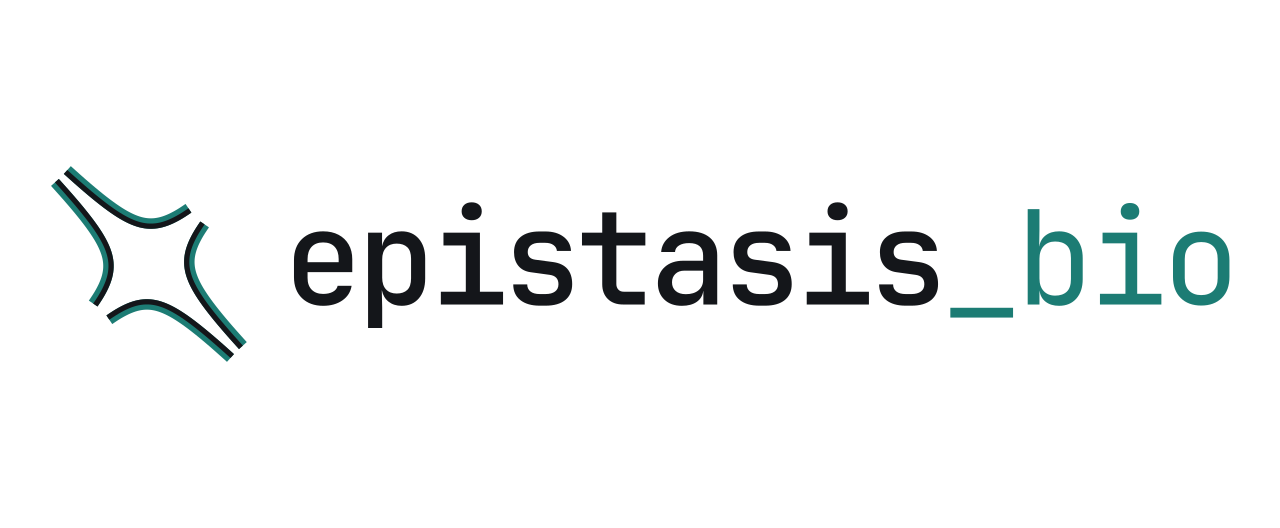
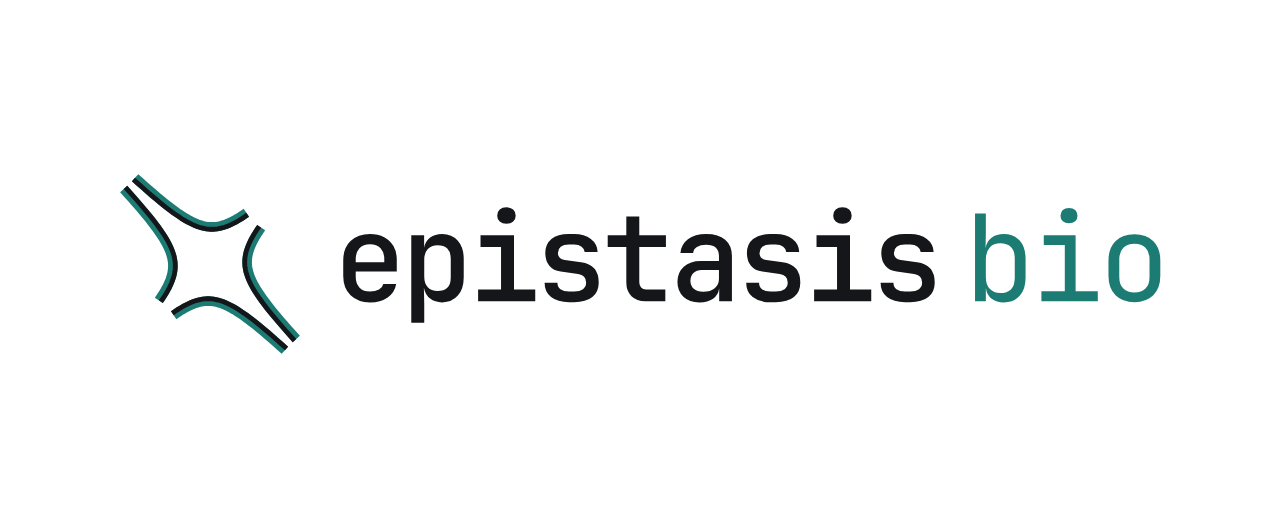
Wordmark: replace underscore with a narrow space
Claude-Session: https://claude.ai/code/session_01MGJTArgyLVDhTMx4WAR9mD

Changed region(s): [[0.0312, 0.303, 0.9688, 0.697]]

diff --git a/about/index.html b/about/index.html
@@ -42,7 +42,7 @@ img{max-width:100%}
 <div style="width: 100%; min-height: 100%; box-sizing: border-box; background: #F4F5F2; color: #14161A; font-family: 'JetBrains Mono', ui-monospace, monospace; font-size: 17px; line-height: 1.55; display: flex; flex-direction: column">
 
 <header style="max-width: 1180px; width: 100%; box-sizing: border-box; margin: 0 auto; padding: 28px 48px 0 48px; display: flex; flex-wrap: wrap; align-items: baseline; justify-content: space-between; gap: 16px 32px">
-<a href="/" style="display: inline-flex; align-items: center"><img src="/assets/epistasis-lockup.svg" alt="epistasis_bio" style="height: 38px; width: auto; display: block"></a>
+<a href="/" style="display: inline-flex; align-items: center"><img src="/assets/epistasis-lockup.svg" alt="epistasis bio" style="height: 38px; width: auto; display: block"></a>
 <nav aria-label="Primary" style="position: relative; top: -10px; display: flex; flex-wrap: wrap; gap: 8px 28px; font-family: 'JetBrains Mono', monospace; font-size: 13px">
 <a href="/about/" style="color: #1C7C74">About</a>
 </nav>

diff --git a/index.html b/index.html
@@ -42,7 +42,7 @@ img{max-width:100%}
 <div style="width: 100%; min-height: 100%; box-sizing: border-box; background: #F4F5F2; color: #14161A; font-family: 'JetBrains Mono', ui-monospace, monospace; font-size: 17px; line-height: 1.55">
 
 <header style="max-width: 1180px; margin: 0 auto; padding: 28px 48px 0 48px; display: flex; flex-wrap: wrap; align-items: baseline; justify-content: space-between; gap: 16px 32px">
-<a href="#top" style="display: inline-flex; align-items: center"><img src="/assets/epistasis-lockup.svg" alt="epistasis_bio" style="height: 38px; width: auto; display: block"></a>
+<a href="#top" style="display: inline-flex; align-items: center"><img src="/assets/epistasis-lockup.svg" alt="epistasis bio" style="height: 38px; width: auto; display: block"></a>
 <nav aria-label="Primary" style="position: relative; top: -10px; display: flex; flex-wrap: wrap; gap: 8px 28px; font-family: 'JetBrains Mono', monospace; font-size: 13px">
 <a href="/about/" style="color: #14161A">About</a>
 </nav>
